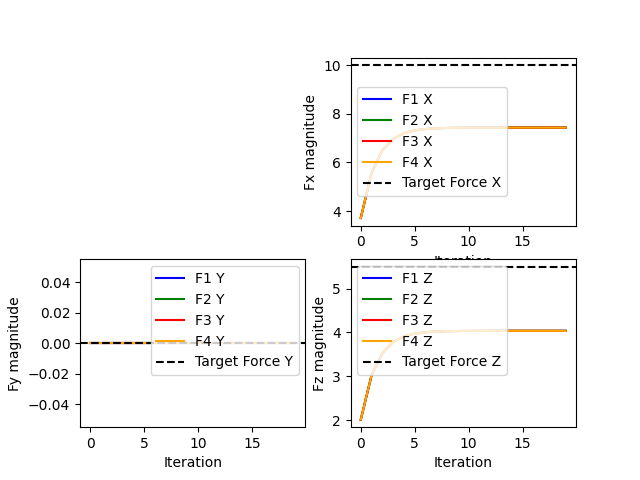
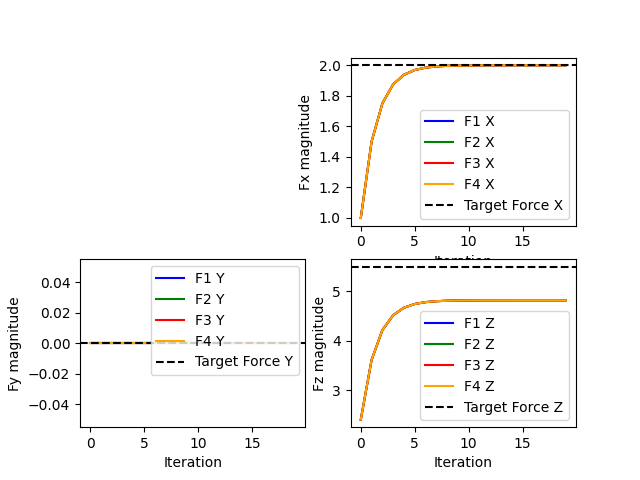
Working dynamics

diff --git a/dynamics_test.py b/dynamics_test.py
@@ -8,6 +8,7 @@ real_dragon = Dragon()
 real_dragon.reset_joint_pos("joint1_pitch",-1.5)
 real_dragon.reset_joint_pos("joint2_pitch", 1.5)
 real_dragon.reset_joint_pos("joint3_pitch", 1.5)
+real_dragon.reset_joint_pos("joint2_yaw", 1.5)
 real_dragon.hover()
 real_dragon.step()
 
@@ -17,17 +18,22 @@ real_dragon.plot_on_ax(ax)
 
 real_W_hist = []
 pred_W_hist = []
+calc_W_hist = []
 
 u = 0.1
 for _ in range(10):
     real_W = real_dragon.wrench()
-    real_W_hist.append(real_W)
+    real_W_hist.append(real_W.copy())
 
     thrusts = []
+    calc_Ws = []
     for i in range(real_dragon.num_modules):
       phi = real_dragon.get_joint_pos(f"G{i+1}")
       theta = real_dragon.get_joint_pos(f"F{i+1}")
       thrust = real_dragon.module_thrust(i+1)
+
+      calc_W, _ = real_dragon.linearize_module(i+1, phi, theta, thrust)
+      calc_Ws.append(calc_W)
 
       phi += u
       theta += u
@@ -39,6 +45,7 @@ for _ in range(10):
       thrusts.append(thrust / 2)
       thrusts.append(thrust / 2)
 
+    calc_W_hist.append(np.sum(calc_Ws, axis=0))
     real_dragon.step()
     real_dragon.thrust(thrusts)
 
@@ -47,6 +54,7 @@ pred_dragon = Dragon()
 pred_dragon.reset_joint_pos("joint1_pitch",-1.5)
 pred_dragon.reset_joint_pos("joint2_pitch", 1.5)
 pred_dragon.reset_joint_pos("joint3_pitch", 1.5)
+real_dragon.reset_joint_pos("joint2_yaw", 1.5)
 pred_dragon.hover()
 pred_dragon.step()
 
@@ -59,23 +67,26 @@ phi = np.zeros(pred_dragon.num_modules)
 theta = np.zeros(pred_dragon.num_modules)
 thrust = np.zeros(pred_dragon.num_modules)
 
-for i in range(pred_dragon.num_modules):
-  phi[i] = pred_dragon.get_joint_pos(f"G{i+1}")
-  theta[i] = pred_dragon.get_joint_pos(f"F{i+1}")
-  thrust[i] = pred_dragon.module_thrust(i+1)
-
-for _ in range(10):
+for k in range(10):
   wrenches = []
   thrusts = []
   for i in range(pred_dragon.num_modules):
-    W, _ = pred_dragon.pred_module_wrench(i+1, phi[i], theta[i], thrust[i])
+
+    if k == 0:
+      phi[i] = pred_dragon.module_phi(i+1)
+      theta[i] = pred_dragon.module_theta(i+1)
+      thrust[i] = pred_dragon.module_thrust(i+1)
+
+    W, A = pred_dragon.linearize_module(i+1, phi[i], theta[i], thrust[i])
+
     wrenches.append(W)
 
-    phi += u
-    theta += u
-    thrust += u
+    phi[i] += u
+    theta[i] += u
+    thrust[i] += u
 
   pred_W_hist.append(np.sum(wrenches, axis=0))
+
 
 fig = plt.figure(figsize=(10, 5))
 names = ["Fx", "Fy", "Fz", "Tx", "Ty", "Tz"]
@@ -83,6 +94,7 @@ for i in range(6):
   fig.add_subplot(2, 3, i + 1)
   plt.plot([w[i] for w in real_W_hist], label="Real Wrench", color='blue')
   plt.plot([w[i] for w in pred_W_hist], label="Predicted Wrench", color='orange')
+  # plt.plot([w[i] for w in calc_W_hist], label="Calculated Wrench", color='green')
   plt.title(names[i])
   plt.xlabel("Time step")
 

diff --git a/admm.py b/admm.py
@@ -8,9 +8,9 @@ import matplotlib.pyplot as plt
 np.set_printoptions(precision=4, suppress=True)
 
 dragon = Dragon.Dragon()
-dragon.reset_joint_pos("joint1_pitch",-1.5)
+"""dragon.reset_joint_pos("joint1_pitch",-1.5)
 dragon.reset_joint_pos("joint2_pitch", 1.5)
-dragon.reset_joint_pos("joint3_pitch", 1.5)
+dragon.reset_joint_pos("joint3_pitch", 1.5)"""
 dragon.hover()
 dragon.step()
 
@@ -19,7 +19,7 @@ dragon.step()
 e_z = np.array([0, 0, 1])
 
 # Desired total wrench change
-W_star = np.array([0, 0, 9.81 * dragon.total_mass, 0, 0, 0])  # fx, fy, fz, tx, ty, tz
+W_star = np.array([2, 0, 9.81 * dragon.total_mass, 0, 0, 0])  # fx, fy, fz, tx, ty, tz
 
 
 alpha = 100
@@ -35,14 +35,11 @@ Adj = np.array([
 
 ADMM_ITERATIONS = 20
 
-def module_problem(MODULE, phi, theta, lamb, dual_W, z_W, W_next):
+def module_problem(MODULE, phi, theta, lamb, dual_W, z_W):
 
     # CVX Problem Setup
 
     W, A = dragon.linearize_module(MODULE, phi, theta, lamb)
-
-    if W_next is not None:
-      W = W_next
 
     dx = cp.Variable(3)
 
@@ -76,8 +73,8 @@ def solve_admm(dragon : Dragon):
   variables = []
 
   for MODULE in range(1, N + 1):
-    phi = dragon.get_joint_pos("G"+str(MODULE))  # roll
-    theta = dragon.get_joint_pos("F"+str(MODULE))  # pitch
+    phi = dragon.module_phi(MODULE)  # roll
+    theta = dragon.module_theta(MODULE)  # pitch
     lamb = dragon.module_thrust(MODULE)  # thrust force
 
     variables.append((phi, theta, lamb))
@@ -88,13 +85,9 @@ def solve_admm(dragon : Dragon):
 
     for i in range(N):
       phi, theta, lamb = variables[i]
-      probs.append(module_problem(i + 1, phi, theta, lamb, dual_W[i], z_W[i], updated_W[i]))
+      probs.append(module_problem(i + 1, phi, theta, lamb, dual_W[i], z_W[i]))
 
     z_W = np.zeros((N, 6))  # Reset z_W for this iteration
-
-    if updated_W is None:
-      updated_W = np.zeros((N, 6))
-
     for i in range(N):
       problem, current_W, A, dx, track_cost, cons_cost = probs[i]
       problem.solve()
@@ -112,7 +105,6 @@ def solve_admm(dragon : Dragon):
       dual_W[i] += (updated_W[i] - z_W[i])
 
     f_history.append(np.sum(updated_W, axis=0))
-
 
   phi = np.array([variables[i][0] for i in range(N)])
   theta = np.array([variables[i][1] for i in range(N)])

diff --git a/Dragon.py b/Dragon.py
@@ -140,6 +140,16 @@ class Dragon:
 
         return np.concatenate((force, torque))
 
+    def module_phi(self, module_index):
+        if module_index < 1 or module_index > self.num_modules:
+            raise ValueError(f"Module index must be between 1 and {self.num_modules}.")
+        return self.get_joint_pos("G" + str(module_index))
+
+    def module_theta(self, module_index):
+        if module_index < 1 or module_index > self.num_modules:
+            raise ValueError(f"Module index must be between 1 and {self.num_modules}.")
+        return self.get_joint_pos("F" + str(module_index))
+
     def sum_of_forces(self):
         forces = np.zeros(3)
         for _, force in self.external_forces:
@@ -413,7 +423,7 @@ class Dragon:
                 ax.quiver(
                     self.center_of_gravity[0], self.center_of_gravity[1], self.center_of_gravity[2],
                     total_torque[0], total_torque[1], total_torque[2],
-                    color='red', length=torque_magnitude / GRAVITY, normalize=True
+                    color='red', length=torque_magnitude, normalize=True
                 )
 
             for i in range(self.num_modules):

diff --git a/forces_convergence.py b/forces_convergence.py
@@ -8,8 +8,8 @@ def R_i(module, dragon):
 
     base = np.array(p.getMatrixFromQuaternion(link_orientation)).reshape(3, 3)
 
-    phi = dragon.get_joint_pos("G" + str(module + 1))
-    theta = dragon.get_joint_pos("F" + str(module + 1))
+    phi = dragon.module_phi(module + 1)
+    theta = dragon.module_theta(module + 1)
 
     # Roll with phi
     cp = np.cos(phi)

diff --git a/optimization.py b/optimization.py
@@ -74,7 +74,7 @@ def sim_loop(dragon: Dragon):
         lam.append(lambda_i)
         dx.append(dx_i)
 
-      residual = W - W_star + suma  # Residual vector
+      residual = (W + suma) - W_star
 
       cost = cp.sum_squares(residual)
 
